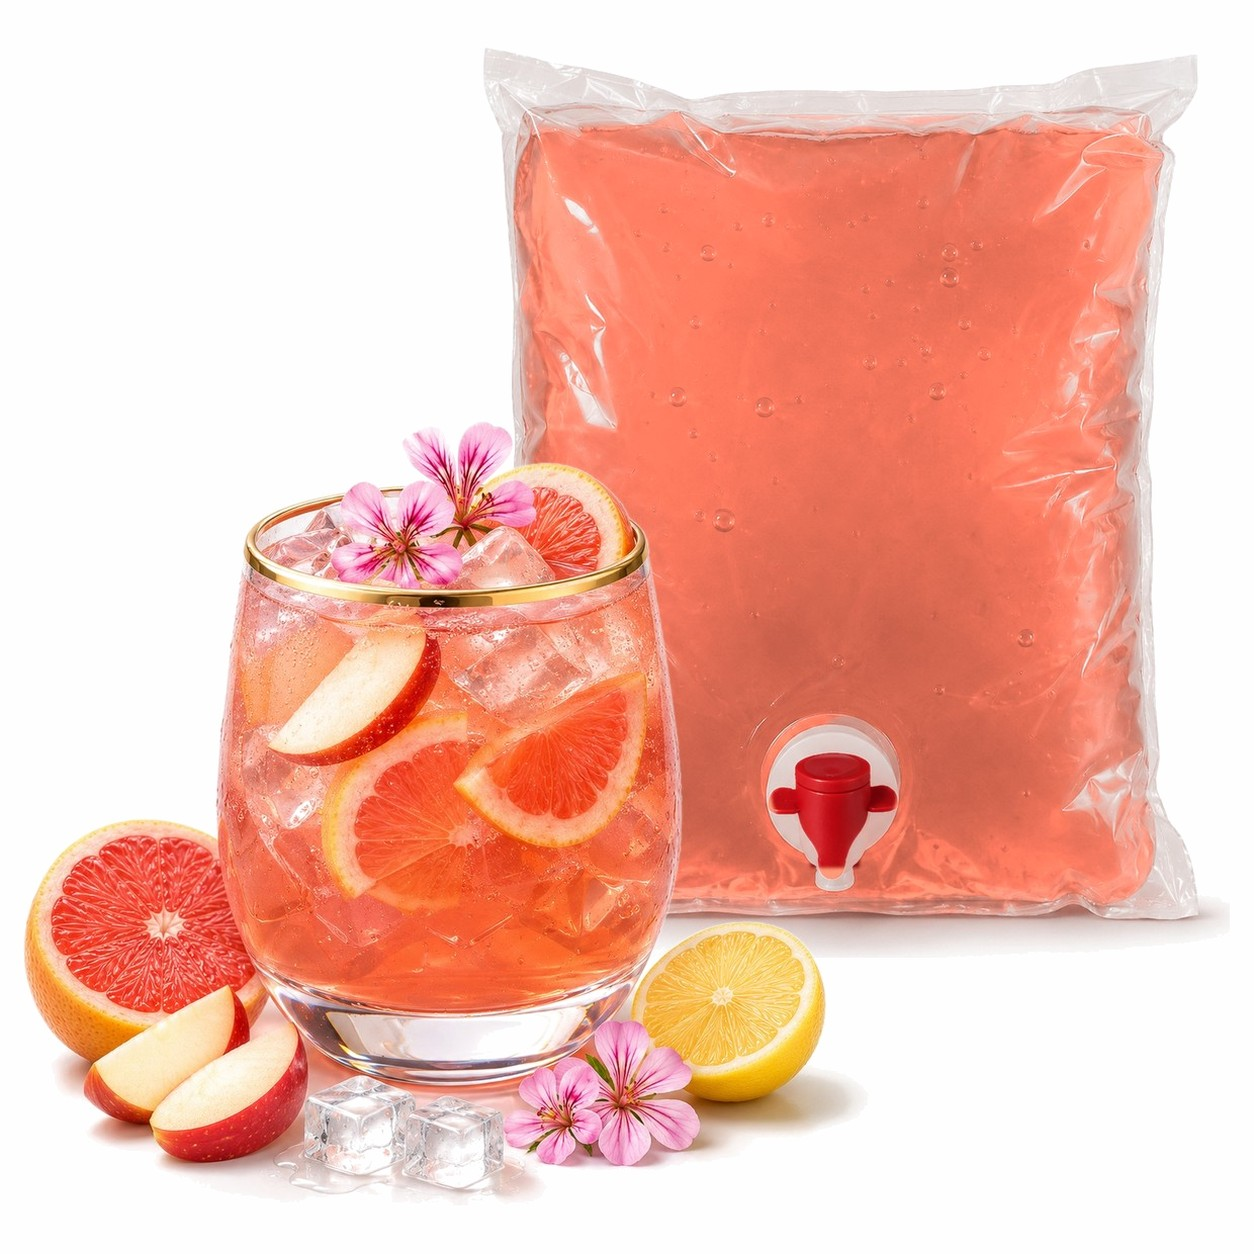
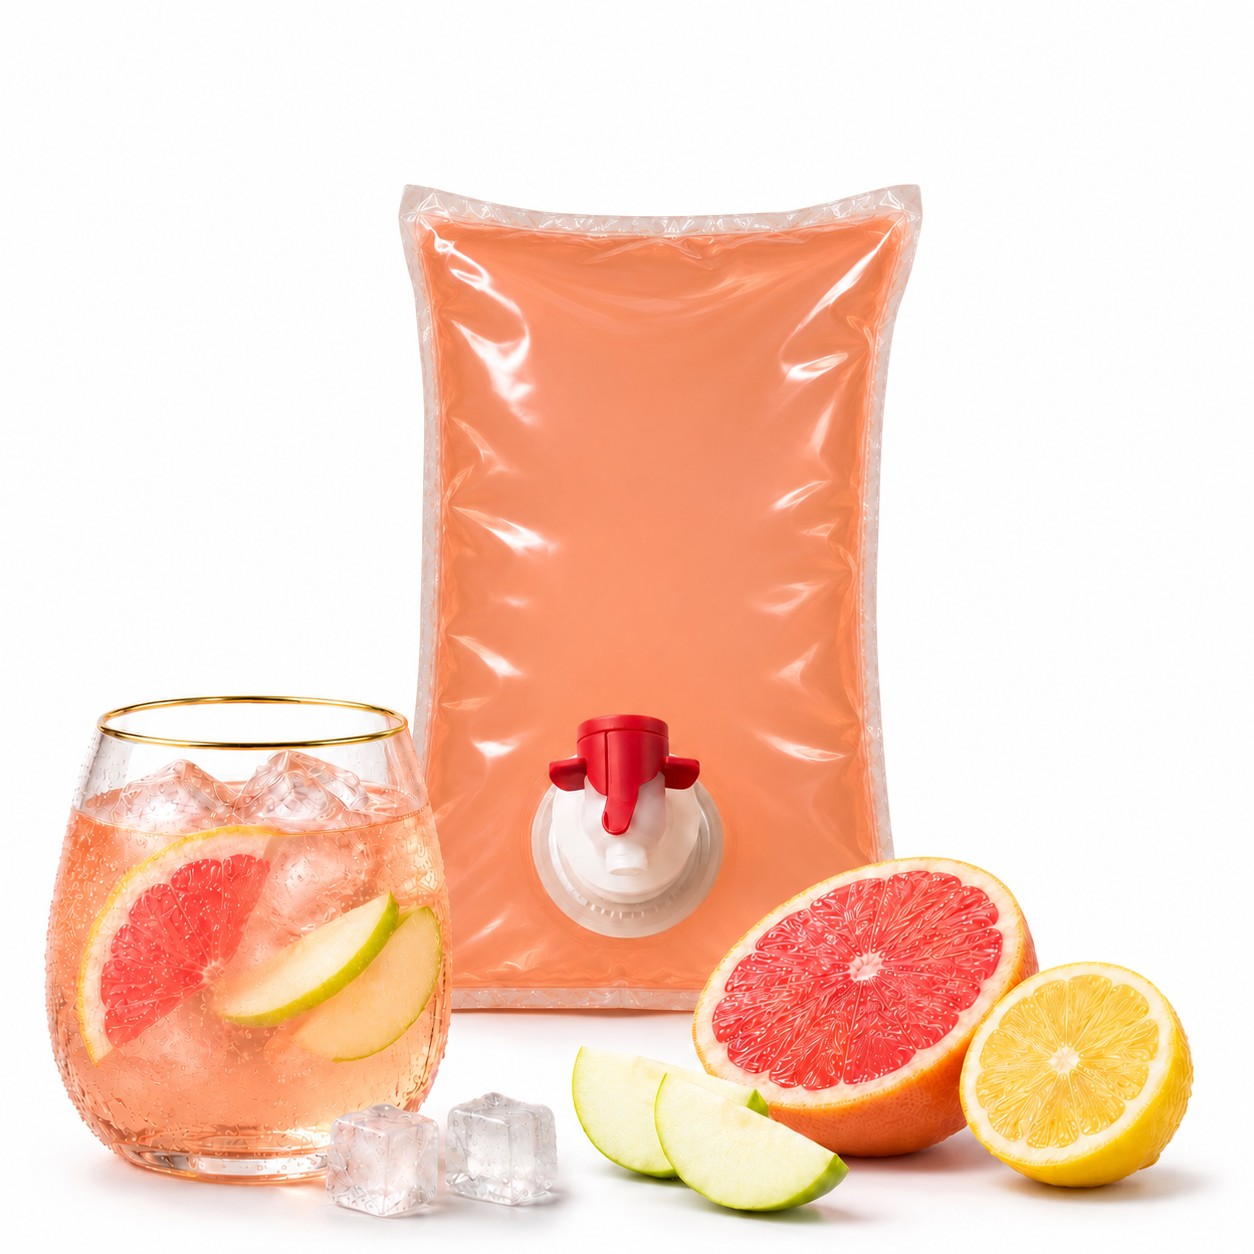
E-shop: Dům u jezera – nová fotka s beginou (#258)
Claude-Session: https://claude.ai/code/session_016QL8fwi582oSosBu6SYFuT

diff --git a/dashboard/lib/eshop/productImages.ts b/dashboard/lib/eshop/productImages.ts
@@ -119,6 +119,7 @@ const BACKDROP: Record<string, string> = {
   "/eshop/koktejly/svarak-deluxe-begina-v3.jpg": "#fefefe",
   "/eshop/koktejly/kosmopolitan-begina-v3.jpg": "#fefefe",
   "/eshop/ovocne-napoje/dum-u-jezera-begina-v2.jpg": "#fefefe",
+  "/eshop/ovocne-napoje/dum-u-jezera-begina-v3.jpg": "#fefefe",
 };
 
 /** Barva podkladu pro fotku na bílém pozadí; null = běžná fotka (ořez na rámeček). */
